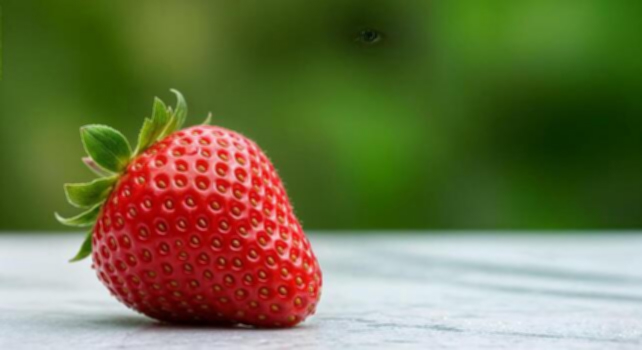
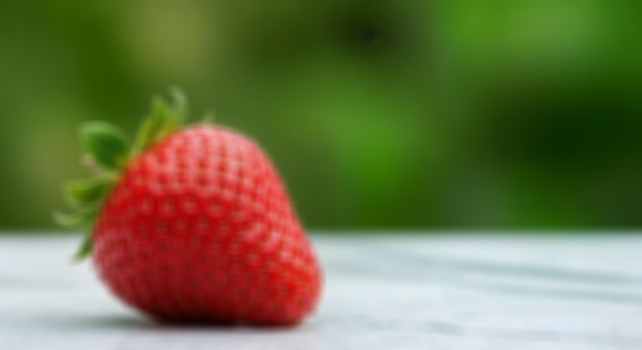
Using parameterized enhance and blur

diff --git a/report.tex b/report.tex
@@ -85,7 +85,7 @@ Take an input image that has been acquired in poor light, and hence has poor con
 
 \subsubsection{C Program}
 \begin{minted}{c}
-LuImage lu_enhance(LuImage input)
+LuImage lu_enhance(LuImage input, float scale)
 {
 	nob_log(NOB_INFO, "Enhancing %s", input.path);
 	LuImage output = lu_image_calloc_like(input, "-lumina-enhanced.jpg");
@@ -95,7 +95,6 @@ LuImage lu_enhance(LuImage input)
 		float norm = (float)input.data[i] / 255.0f - 0.5f;
 
 		// scale and clip
-		float scale = 1.5f;
 		norm *= scale; // [-scale * 0.5, scale * 0.5];
 		if (norm < -0.5f) norm = -0.5f;
 		if (norm > +0.5f) norm = +0.5f;
@@ -136,7 +135,7 @@ Write a program to blur an image. Show the input image, the output image and als
 \newpage
 \subsubsection{C Program}
 \begin{minted}{c}
-LuImage lu_blur(LuImage input)
+LuImage lu_blur(LuImage input, int radius)
 {
 	nob_log(NOB_INFO, "Blurring %s", input.path);
 	LuImage output = lu_image_calloc_like(input, "-lumina-blurred.jpg");
@@ -144,13 +143,11 @@ LuImage lu_blur(LuImage input)
 	for (int y = 0; y < input.height; ++y) {
 		for (int x = 0; x < input.width; ++x) {
 			for (int c = 0; c < input.channels; ++c) {
-				// For each pixel and for each channel in the pixel,
-				// Average out the neighbouring pixels
-				// For edges of the image, only use the valid pixels.
-				int avg_neighbours         = 0;
-				int valid_neighbours_count = 0;
-				for (int yy = y - 1; yy <= y + 1; ++yy) {
-					for (int xx = x - 1; xx <= x + 1; ++xx) {
+				int avg_neighbours          = 0;
+				int valid_neighbours_count  = 0;
+				int farthest_pixel_distance = (2 * radius) - 1;
+				for (int yy = y - farthest_pixel_distance; yy <= y + farthest_pixel_distance; ++yy) {
+					for (int xx = x - farthest_pixel_distance; xx <= x + farthest_pixel_distance; ++xx) {
 						int neighbour;
 						if (xx < 0 || xx >= input.width || yy < 0 || yy >= input.height) {
 							neighbour = 0;
@@ -163,7 +160,6 @@ LuImage lu_blur(LuImage input)
 					}
 				}
 
-				// Write the average value of the channel to the output
 				avg_neighbours /= valid_neighbours_count;
 				LU_IMAGE_AT(output, y, x, c) = (stbi_uc)avg_neighbours;
 			}

diff --git a/src/lumina.c b/src/lumina.c
@@ -68,7 +68,7 @@ LuImage lu_image_calloc_like(LuImage image, const char* ext)
 	return output;
 }
 
-LuImage lu_enhance(LuImage input)
+LuImage lu_enhance(LuImage input, float scale)
 {
 	nob_log(NOB_INFO, "Enhancing %s", input.path);
 	LuImage output = lu_image_calloc_like(input, "-lumina-enhanced.jpg");
@@ -78,7 +78,6 @@ LuImage lu_enhance(LuImage input)
 		float norm = (float)input.data[i] / 255.0f - 0.5f;
 
 		// scale and clip
-		float scale = 1.5f;
 		norm *= scale; // [-scale * 0.5, scale * 0.5];
 		if (norm < -0.5f) norm = -0.5f;
 		if (norm > +0.5f) norm = +0.5f;
@@ -97,7 +96,7 @@ LuImage lu_enhance(LuImage input)
 
 #define LU_IMAGE_AT(image, y, x, c) ((image).data[(y) * (image).stry + (x) * (image).strx + (c) * (image).strc])
 
-LuImage lu_blur(LuImage input)
+LuImage lu_blur(LuImage input, int radius)
 {
 	nob_log(NOB_INFO, "Blurring %s", input.path);
 	LuImage output = lu_image_calloc_like(input, "-lumina-blurred.jpg");
@@ -105,10 +104,11 @@ LuImage lu_blur(LuImage input)
 	for (int y = 0; y < input.height; ++y) {
 		for (int x = 0; x < input.width; ++x) {
 			for (int c = 0; c < input.channels; ++c) {
-				int avg_neighbours         = 0;
-				int valid_neighbours_count = 0;
-				for (int yy = y - 1; yy <= y + 1; ++yy) {
-					for (int xx = x - 1; xx <= x + 1; ++xx) {
+				int avg_neighbours          = 0;
+				int valid_neighbours_count  = 0;
+				int farthest_pixel_distance = (2 * radius) - 1;
+				for (int yy = y - farthest_pixel_distance; yy <= y + farthest_pixel_distance; ++yy) {
+					for (int xx = x - farthest_pixel_distance; xx <= x + farthest_pixel_distance; ++xx) {
 						int neighbour;
 						if (xx < 0 || xx >= input.width || yy < 0 || yy >= input.height) {
 							neighbour = 0;

diff --git a/src/main.c b/src/main.c
@@ -90,8 +90,8 @@ int main(int argc, char* argv[argc])
 	// Performing the task
 	LuImage output = { 0 };
 	switch (task) {
-	case TASK_ENHC: output = lu_enhance(input); break;
-	case TASK_BLUR: output = lu_blur(input); break;
+	case TASK_ENHC: output = lu_enhance(input, 1.5); break;
+	case TASK_BLUR: output = lu_blur(input, 3); break;
 	case TASK_ARMF: LU_UNIMPLEMENTED(); break;
 	case TASK_GEMF: LU_UNIMPLEMENTED(); break;
 	case TASK_GLPF: LU_UNIMPLEMENTED(); break;

diff --git a/include/lumina.h b/include/lumina.h
@@ -23,7 +23,7 @@ LuImage lu_image_load(const char* image_path);
 void lu_image_write(LuImage image);
 void lu_image_log_info(LuImage image);
 
-LuImage lu_enhance(LuImage input);
-LuImage lu_blur(LuImage input);
+LuImage lu_enhance(LuImage input, float scale);
+LuImage lu_blur(LuImage input, int radius);
 
 #endif // LUMINA_H
